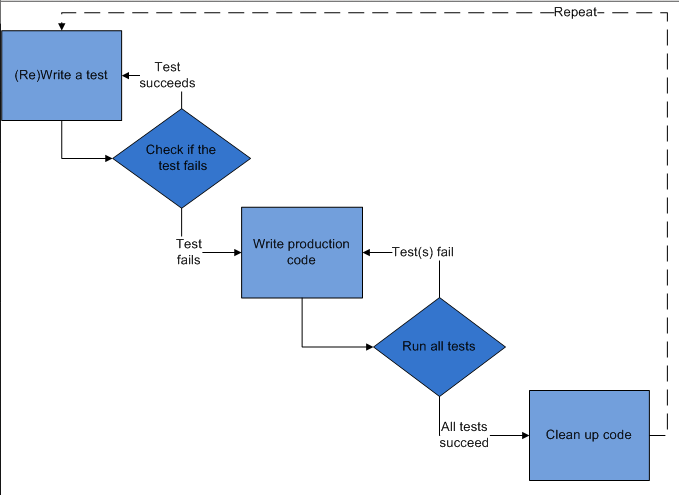
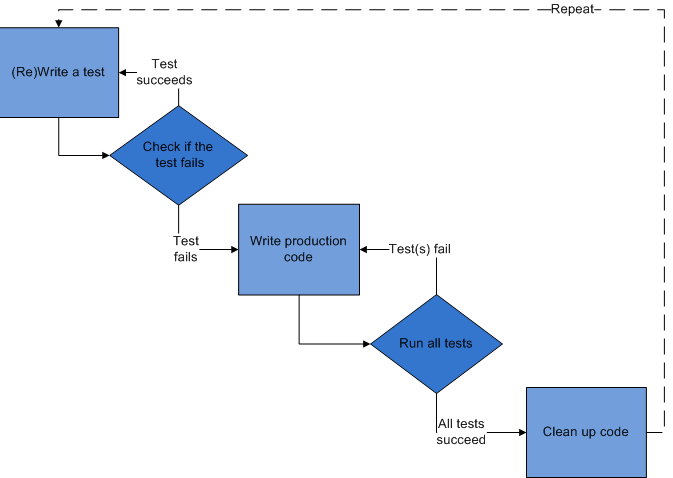
Update image

diff --git a/unit3_projects/week8_technical.html b/unit3_projects/week8_technical.html
@@ -58,7 +58,7 @@
         <p>Test-driven development (TDD) is "a software development process that relies on the repetition of a very short development cycle"<sup>1</sup>.
         </p>
         <p>
-            <img border="0" src="http://upload.wikimedia.org/wikipedia/en/9/9c/Test-driven_development.PNG" alt="TDD Development Cycle">
+            <img border="0" src="https://raw.githubusercontent.com/fma2/fma2.github.io/master/unit3_projects/images/Screen%20Shot%202014-06-14%20at%201.04.14%20PM.png" alt="TDD Development Cycle">
             <br>
             <small>A graphical representation of the development cycle, using a basic flowchart<sup>1</sup>
             </small>
